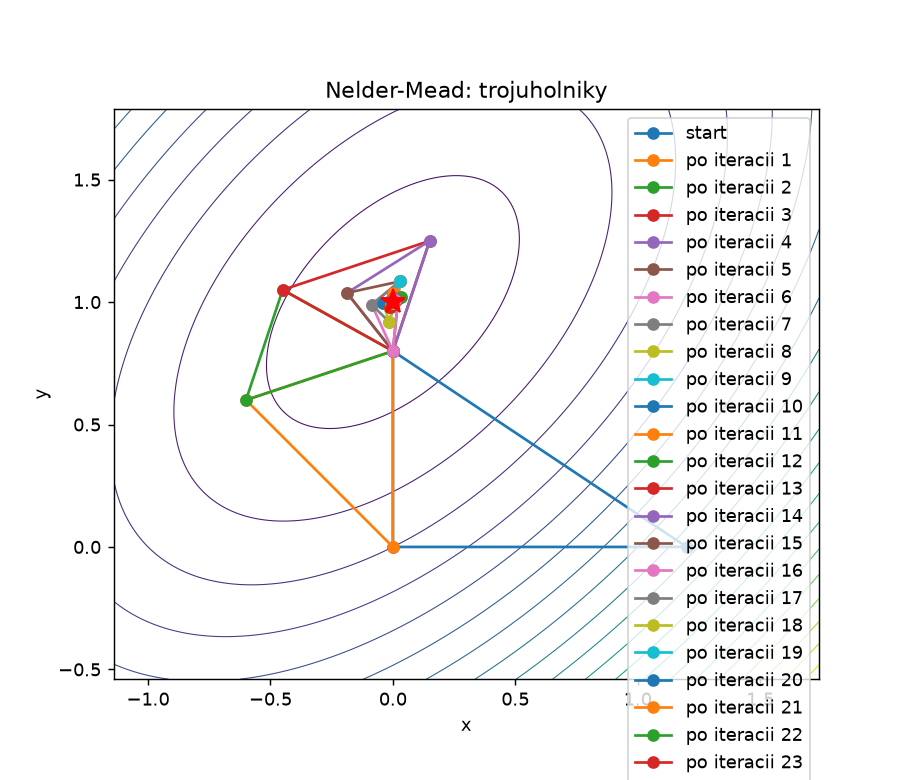
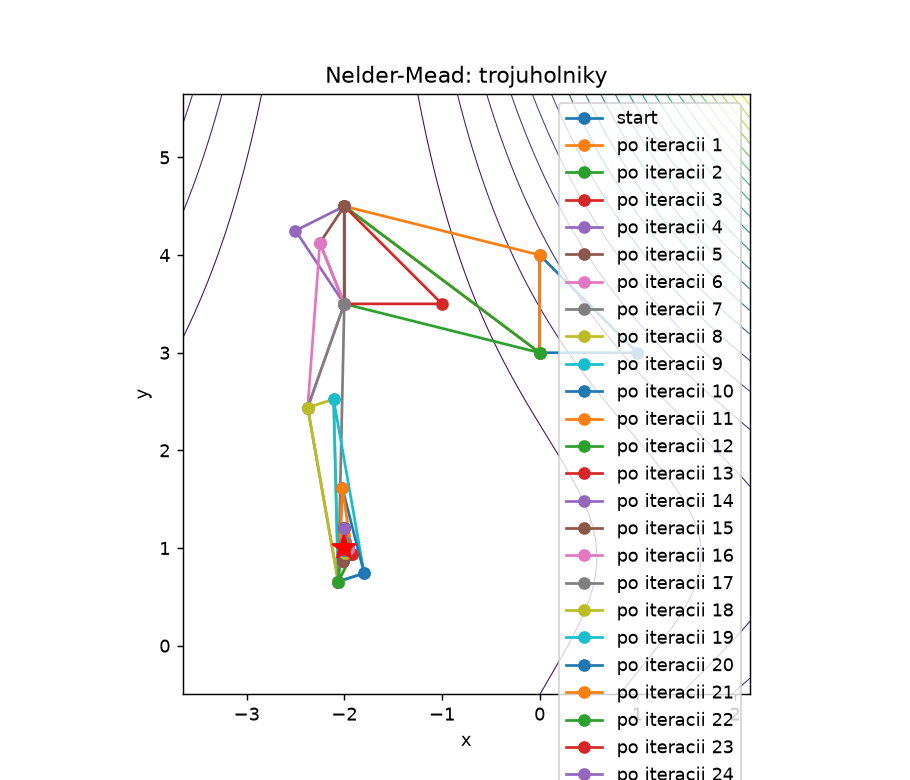
uprava po zapocte

diff --git a/zapocet_kody/jednoduche/gradient.py b/zapocet_kody/jednoduche/gradient.py
@@ -1,11 +1,15 @@
-# NAJSTRMSI GRADIENT (normovany smer) - jednoducha verzia, kroky ako na papieri
+# NAJSTRMSI GRADIENT (smer BEZ normovania, da sa prepnut cez NORMOVAT) - jednoducha verzia, kroky ako na papieri
 #
 #   1. grad f(P) = (fx, fy)            dosadim bod P do derivacii
 #   2. ||grad|| = odmocnina(fx^2 + fy^2)        STOP ak ||grad|| < eps
-#   3. S = -grad / ||grad||            smer najvacsieho klesania (dlzka 1)
+#   3. S = -grad                       smer najvacsieho klesania (bez normovania)
+#      (ak NORMOVAT = True:  S = -grad / ||grad||, dlzka 1)
 #   4. phi(gama) = f(P + gama*S)       dosadim priamku do f
 #   5. phi'(gama) = 0  ->  gama > 0    (ak vyjde viac miním, beriem to s najmensim phi)
 #   6. P = P + gama*S                  a ideme znova od 1.
+#
+# Ak je LEARNING_RATE nastaveny (nie None), kroky 3.-5. sa preskocia a krok je pevny:
+#   P = P - lr * grad f(P)             (klasicky gradientny zostup s learning rate)
 #
 # Pocita sa na 50 platnych cifier, takze zaokruhlovanie vysledok nepokazi.
 # DESATINNE = na kolko desatinnych miest zaokruhlim VYSLEDOK (5 a viac nahor);
@@ -27,10 +31,12 @@ from sympy.parsing.sympy_parser import (convert_xor, implicit_multiplication_app
 #    e^(x + y)   exp(x + y)            e na nieco
 #    ln(x)   abs(x)   sin(x)   pi      logaritmus, abs. hodnota, ...
 #    0.5x                              desatinna BODKA (nie ciarka)
-FUNKCIA = "x^2 + 2y^2"
-START = (2, 2)           # zaciatocny bod P0 = (x, y)
+FUNKCIA = "20*x**2+y**2+(x-y+1)**4"   # funkcia v uvodzovkach
+START = (2,3)           # zaciatocny bod P0 = (x, y)
 EPS = 0.001              # STOP ked ||grad f|| < EPS
-MAX_IT = 100             # najviac tolko iteracii
+MAX_IT = 20000             # najviac tolko iteracii
+LEARNING_RATE = 0.005    # pevny krok: P = P - lr*grad   (None = gama z phi'(gama) = 0)
+NORMOVAT = False         # False: S = -grad,   True: S = -grad/||grad||
 DESATINNE = 4            # VYSLEDOK zaokruhlim na tolko desatinnych miest
                          # (len konecny vypis - vypocet sa tym nemeni)
 # ======================================================================
@@ -122,7 +128,7 @@ def najdi_gamu(phi):
     return min(minima, key=lambda r: (round(float(phi_v(r)), 12), r)), dp.as_expr()
 
 
-def vypocitaj(funkcia=FUNKCIA, start=START, eps=EPS, max_it=MAX_IT, vypis=True):
+def vypocitaj(funkcia=FUNKCIA, start=START, eps=EPS, max_it=MAX_IT, lr=LEARNING_RATE, vypis=True):
     pis = print if vypis else (lambda *a, **k: None)
     f = nacitaj_funkciu(funkcia)
     fx, fy = sp.diff(f, x), sp.diff(f, y)
@@ -145,8 +151,18 @@ def vypocitaj(funkcia=FUNKCIA, start=START, eps=EPS, max_it=MAX_IT, vypis=True):
         pis(f"\n--- iteracia {k + 1} ---")
         pis(f"P = {bod(P)},  f(P) = {t(hodnota(f, P))}")
         pis(f"grad f(P) = {bod((gx, gy))},  ||grad|| = {t(norma)}")
-        S = (-gx / norma, -gy / norma)
-        pis(f"S = -grad/||grad|| = {bod(S)}")
+        if lr is not None:
+            a = sp.Float(str(lr), CIFRY)
+            P = (P[0] - a * gx, P[1] - a * gy)
+            pis(f"P_nove = P - lr*grad = P - {t(a)}*{bod((gx, gy))} = {bod(P)},  f = {t(hodnota(f, P))}")
+            historia.append({"grad": (gx, gy), "lr": a, "P": P})
+            continue
+        if NORMOVAT:
+            S = (-gx / norma, -gy / norma)
+            pis(f"S = -grad/||grad|| = {bod(S)}")
+        else:
+            S = (-gx, -gy)
+            pis(f"S = -grad = {bod(S)}")
         phi = sp.expand(f.subs({x: P[0] + gama * S[0], y: P[1] + gama * S[1]}, simultaneous=True))
         pis(f"phi(gama) = f(P + gama*S) = {str(sp.N(phi, 7)).replace('**', '^')}")
         g, dphi = najdi_gamu(phi)

diff --git a/zapocet_kody/gradient.py b/zapocet_kody/gradient.py
@@ -1,5 +1,6 @@
 # Metoda najstrmsieho zostupu (steepest descent)
-#   - smer je NORMOVANY:        S = -grad f / ||grad f||
+#   - smer BEZ normovania:      S = -grad f
+#     (NORMOVAT = True ->       S = -grad f / ||grad f||)
 #   - krok gama hladame presne:  phi(gama) = f(P + gama*S),  phi'(gama) = 0
 #   - novy bod:                  P_nove = P + gama*S
 #
@@ -55,10 +56,11 @@ import sympy as sp
 #    "sqrt(x**2 + 1) + (y - 2)**2"
 #    "exp(x**2 + y**2) - 2*x"
 #
-FUNKCIA = "x**2 + 2*y**2"   # funkcia v uvodzovkach
-START = (3, 1)              # startovaci bod (x0, y0), napr. (-1.2, 1)
-EPS = 1e-3                  # presnost: 1e-3 = 0.001,  1e-4 = 0.0001
-MAX_IT = 100                # najviac tolko iteracii
+FUNKCIA = "3*(x+2)**2+0.2*(y-1)**2+0.5*(x+2)*(y-1)+(x+2)**2*(y-1)**2"   # funkcia v uvodzovkach
+START = (0,3)              # startovaci bod (x0, y0), napr. (-1.2, 1)
+EPS = 10e-8                  # presnost: 1e-3 = 0.001,  1e-4 = 0.0001
+MAX_IT = 20000                # najviac tolko iteracii
+NORMOVAT = False              # False: S = -grad,   True: S = -grad/||grad||
 # =============================================================================
 
 
@@ -158,6 +160,18 @@ def minima_polynomu(phi):
 
 
 def najdi_gamu(f, P, S):
+    """Najde gama > 0, kde je phi(gama) = f(P + gama*S) najmensie.
+    Ked S nie je normovany (S = -grad), je pri minime velmi kratky a phi ma
+    drobne koeficienty (1e-24...) -> korene by sa nenasli. Preto gama hladam
+    v smere dlzky 1 a prepocitam: gama = gama_jednotkove / ||S||  (ten isty bod)."""
+    d = math.hypot(S[0], S[1])
+    g, phi = najdi_gamu_jednotkovy(f, P, (S[0] / d, S[1] / d))
+    if d != 1:
+        phi = sp.expand(f.subs({x: P[0] + gama * S[0], y: P[1] + gama * S[1]}, simultaneous=True))
+    return g / d, phi
+
+
+def najdi_gamu_jednotkovy(f, P, S):
     """Dosadi priamku do f a najde gama > 0, kde je phi(gama) najmensie."""
     # 1. dosadenie priamky: x = Px + gama*Sx,  y = Py + gama*Sy
     phi = sp.expand(f.subs({x: P[0] + gama * S[0], y: P[1] + gama * S[1]}, simultaneous=True))
@@ -218,8 +232,8 @@ def main():
             stop = f"||grad f|| = {dlzka:.2e} < eps po {k} iteraciach"
             break
 
-        # normovany smer
-        S = (-gx / dlzka, -gy / dlzka)
+        # smer najvacsieho klesania (normovany len ak NORMOVAT = True)
+        S = (-gx / dlzka, -gy / dlzka) if NORMOVAT else (-gx, -gy)
 
         # presne hladanie po priamke
         g, phi = najdi_gamu(f, P, S)

diff --git a/zapocet_kody/nelder_mead.py b/zapocet_kody/nelder_mead.py
@@ -67,17 +67,25 @@ import sympy as sp
 #    "sqrt(x**2 + 1) + (y - 2)**2"
 #    "exp(x**2 + y**2) - 2*x"
 #
-FUNKCIA = "x**2 + y**2 + x - 2*y - x*y + 2"     # funkcia v uvodzovkach
-BODY = [(1.2, 0), (0, 0.8), (0, 0)]   # 3 startovacie body trojuholnika (poradie je jedno)
+   # funkcia v uvodzovkach
+BODY = [(0,3), (1,3), (0,4)]   # 3 startovacie body trojuholnika (poradie je jedno)
 ALFA = 1                    # reflexia
 GAMA = 2                    # expanzia
 RHO = 0.5                   # kontrakcia
 SIGMA = 0.5                 # zmrstenie
 KONTRAKCIA = "prednaska"    # "prednaska" = C1 aj C2, beriem ten s mensim f
                             # "cvicenie"  = len C1 = M + rho*(W - M)
-EPS = 1e-3                  # presnost: 1e-3 = 0.001,  1e-4 = 0.0001
-MAX_IT = 200                # najviac tolko iteracii
-KRESLIT = 200                 # nakresli trojuholniky prvych KRESLIT iteracii (0 = nekreslit)
+ # funkcia v uvodzovkach
+            # startovaci bod (x0, y0), napr. (-1.2, 1)
+                # presnost: 1e-3 = 0.001,  1e-4 = 0.0001
+
+KRESLIT = 200   
+
+
+FUNKCIA = "3*(x+2)**2+0.2*(y-1)**2+0.5*(x+2)*(y-1)+(x+2)**2*(y-1)**2"   # funkcia v uvodzovkach
+START = (0,3)              # startovaci bod (x0, y0), napr. (-1.2, 1)
+EPS = 10e-8                  # presnost: 1e-3 = 0.001,  1e-4 = 0.0001
+MAX_IT = 20000                 # nakresli trojuholniky prvych KRESLIT iteracii (0 = nekreslit)
 # =============================================================================
 
 

diff --git a/zapocet_kody/jednoduche/newton.py b/zapocet_kody/jednoduche/newton.py
@@ -29,11 +29,17 @@ from sympy.parsing.sympy_parser import (convert_xor, implicit_multiplication_app
 #    e^(x + y)   exp(x + y)            e na nieco
 #    ln(x)   abs(x)   sin(x)   pi      logaritmus, abs. hodnota, ...
 #    0.5x                              desatinna BODKA (nie ciarka)
-FUNKCIA = "(x+2)**2 + (y-1)**2 + (x*y)/2"
-START = (3, -2)           # zaciatocny bod X0 = (x, y)
-EPS = 0.001              # STOP ked ||grad f|| < EPS alebo ||X_nove - X|| < EPS
-MAX_IT = 100             # najviac tolko iteracii
-DESATINNE = 5            # VYSLEDOK zaokruhlim na tolko desatinnych miest
+         # zaciatocny bod X0 = (x, y)
+             # STOP ked ||grad f|| < EPS alebo ||X_nove - X|| < EPS
+            # najviac tolko iteracii
+DESATINNE = 5 
+
+FUNKCIA = "20*x**2+y**2+(x-y+1)**4"   # funkcia v uvodzovkach
+START = (2,3)           # zaciatocny bod P0 = (x, y)
+EPS = 0.000000001              # STOP ked ||grad f|| < EPS
+MAX_IT = 20000             # najviac tolko iteracii
+# pevny krok: P = P - lr*grad   (None = gama z phi'(gama) = 0)
+              # VYSLEDOK zaokruhlim na tolko desatinnych miest
                          # (len konecny vypis - vypocet sa tym nemeni)
 # ======================================================================
 

diff --git a/zapocet_kody/jednoduche/powell.py b/zapocet_kody/jednoduche/powell.py
@@ -32,9 +32,9 @@ from sympy.parsing.sympy_parser import (convert_xor, implicit_multiplication_app
 #    e^(x + y)   exp(x + y)            e na nieco
 #    ln(x)   abs(x)   sin(x)   pi      logaritmus, abs. hodnota, ...
 #    0.5x                              desatinna BODKA (nie ciarka)
-FUNKCIA = "x^2 - 4x + 2*y^2 - 6y + 2*xy"
-START = (0, 0)           # zaciatocny bod P0 = (x, y)
-EPS = 0.001              # STOP ked ||P3 - P0|| < EPS
+FUNKCIA = "20*x**2+y**2+(x-y+1)**4"   # funkcia v uvodzovkach
+START = (2,3)            # zaciatocny bod P0 = (x, y)
+EPS = 0.000000001              # STOP ked ||P3 - P0|| < EPS
 MAX_IT = 100             # najviac tolko iteracii
 DESATINNE = 5            # VYSLEDOK zaokruhlim na tolko desatinnych miest
                          # (len konecny vypis - vypocet sa tym nemeni)

diff --git a/zapocet_kody/powell.py b/zapocet_kody/powell.py
@@ -63,10 +63,15 @@ import sympy as sp
 #    "sqrt(x**2 + 1) + (y - 2)**2"
 #    "exp(x**2 + y**2) - 2*x"
 #
-FUNKCIA = "x**2 - 4*x + y**2 - y - x*y"   # funkcia v uvodzovkach
+ # funkcia v uvodzovkach
 START = (0, 0)              # startovaci bod (x0, y0), napr. (-1.2, 1)
-EPS = 1e-3                  # presnost: 1e-3 = 0.001,  1e-4 = 0.0001
-MAX_IT = 100                # najviac tolko iteracii
+
+
+
+FUNKCIA = "3*(x+2)**2+0.2*(y-1)**2+0.5*(x+2)*(y-1)+(x+2)**2*(y-1)**2"   # funkcia v uvodzovkach
+START = (0,3)              # startovaci bod (x0, y0), napr. (-1.2, 1)
+EPS = 10e-8                  # presnost: 1e-3 = 0.001,  1e-4 = 0.0001
+MAX_IT = 20000                # najviac tolko iteracii
 # =============================================================================
 
 

diff --git a/zapocet_kody/newton.py b/zapocet_kody/newton.py
@@ -55,10 +55,12 @@ import sympy as sp
 #    "sqrt(x**2 + 1) + (y - 2)**2"
 #    "exp(x**2 + y**2) - 2*x"
 #
-FUNKCIA = "x**4/4 + x**2/2 + y**2/2"   # funkcia v uvodzovkach
-START = (1, 1)              # startovaci bod (x0, y0), napr. (-1.2, 1)
-EPS = 1e-3                  # presnost: 1e-3 = 0.001,  1e-4 = 0.0001
-MAX_IT = 100                # najviac tolko iteracii
+  
+
+FUNKCIA = "x**6/6 -1.25*x**4 + 2*x**2 + (y-x/2)**2"   # funkcia v uvodzovkach
+START = (0.5,0.5)               # startovaci bod (x0, y0), napr. (-1.2, 1)
+EPS = 10e-8                  # presnost: 1e-3 = 0.001,  1e-4 = 0.0001
+MAX_IT = 20000               # najviac tolko iteracii
 # =============================================================================
 
 
